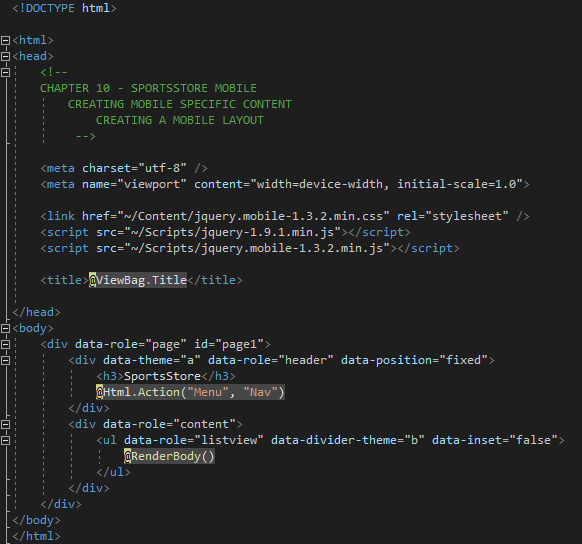
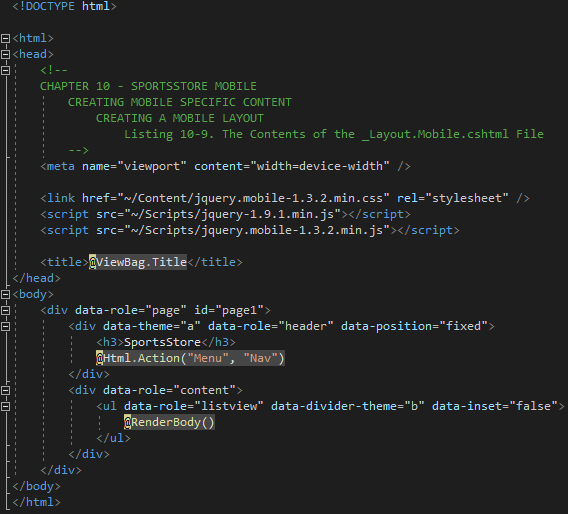
Listing 10-9. The Contents of the _Layout.Mobile.cshtml File
CHAPTER 10 - SPORTSSTORE MOBILE
	CREATING MOBILE SPECIFIC CONTENT
		CREATING A MOBILE LAYOUT
			Listing 10-9. The Contents of the _Layout.Mobile.cshtml File

diff --git a/CHAPTER 10 - SPORTSSTORE MOBILE/AA - SUMMARY/CC CREATING MOBILE SPECIFIC CONTENT.MD b/CHAPTER 10 - SPORTSSTORE MOBILE/AA - SUMMARY/CC CREATING MOBILE SPECIFIC CONTENT.MD
@@ -15,11 +15,15 @@ Install-Package jquery.mobile -Version 1.3.2
 Install-Package jquery -Version 1.9.1
 ```
 
-2. Create a file called *_Layout.Mobile.cshtml* in the *Views/Shared* folder and edit it to match Listing 10-9.  
-<p align="center">
-	<img src="ch10-Pictures/Listing 10-9.png" /><br />
-	<b>Listing 10-9.</b> The Contents of the _Layout.Mobile.cshtml File
-</p>
+2. Create a file called *_Layout.Mobile.cshtml* in the *Views/Shared* folder following these steps:
+	1. Right-click the *shared* folder.
+	2. Select *Add > 5 Layout Page (Razor)*.
+	3. Type *_Layout.Mobile* from the pop-up menu
+	4. Edit it to match Listing 10-9.  
+		<p align="center">
+			<img src="ch10-Pictures/Listing 10-9.png" /><br />
+			<b>Listing 10-9.</b> The Contents of the _Layout.Mobile.cshtml File
+		</p>
 
 3. Figure 10-7
 
@@ -29,8 +33,3 @@ CHAPTER 10 - SPORTSSTORE MOBILE
 	CREATING MOBILE SPECIFIC CONTENT
 		CREATING A MOBILE LAYOUT
 			Listing 10-9. The Contents of the _Layout.Mobile.cshtml File
-
-CHAPTER 10 - SPORTSSTORE MOBILE
-	USING RESPONSIVE DESIGN
-		REMOVING VIEW DUPLICATION
-			Listing 10-8. The Contents of the FlexMenu.cshtml File
